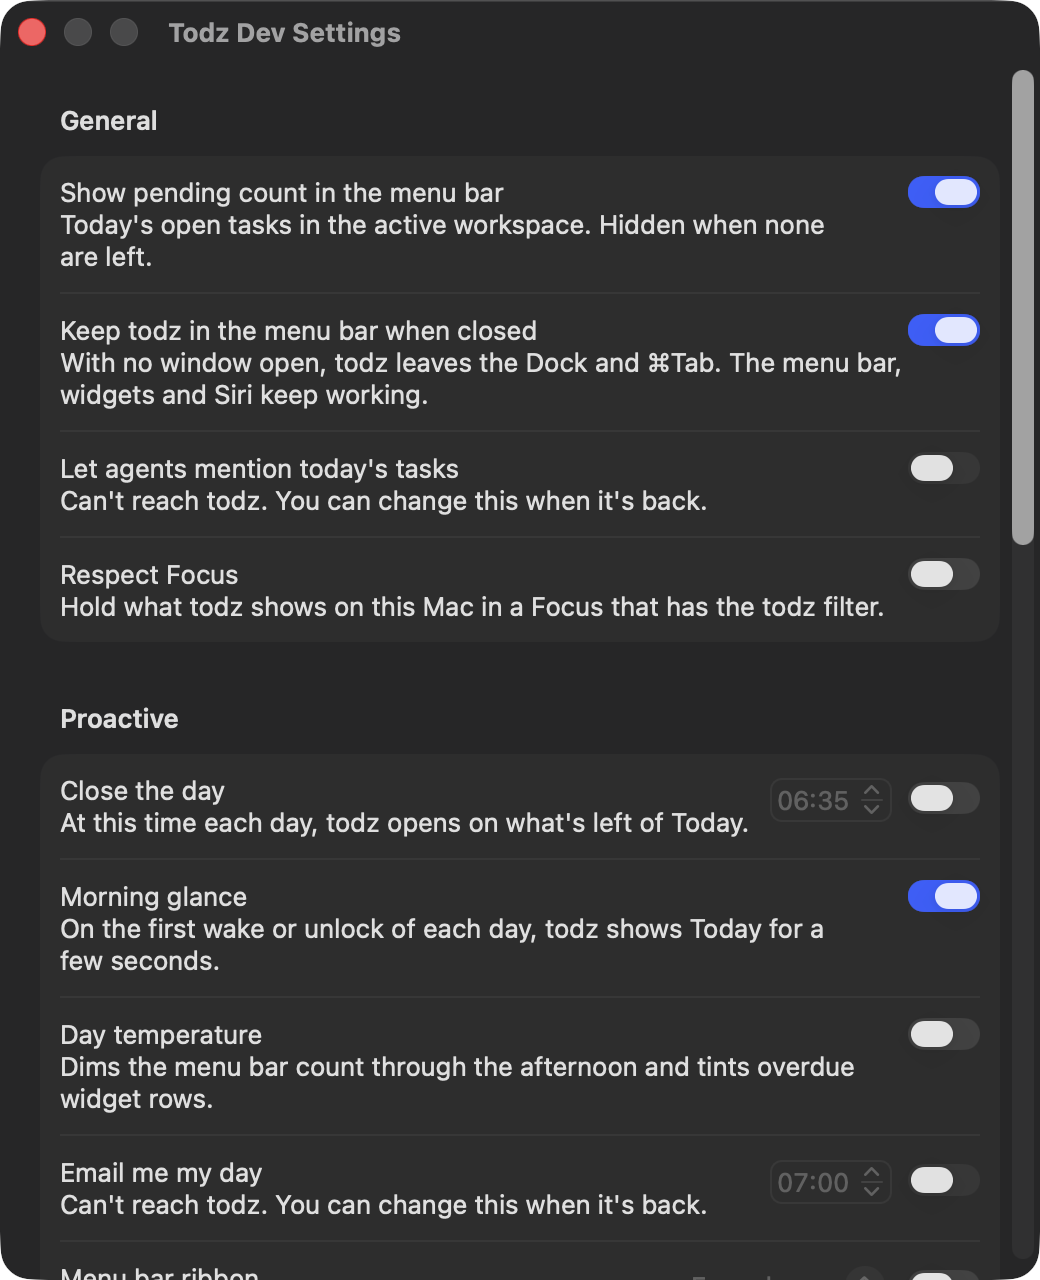
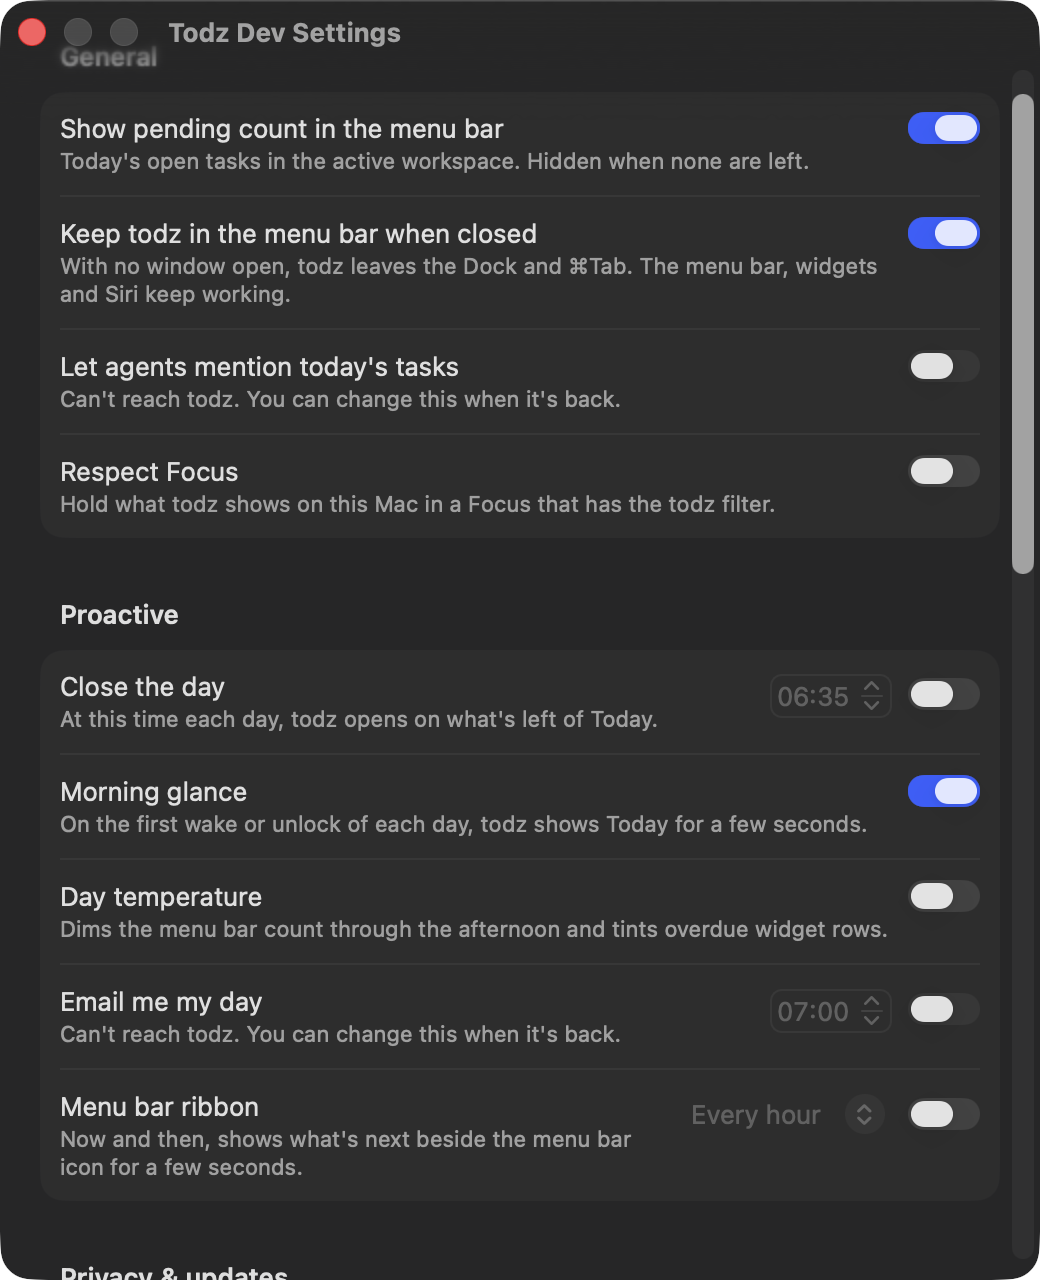
fix(macos): keep Return on Not Now and catch Escape separately
Not Now stays the first button with its Return key; Escape is caught by a local key monitor and clicks it. Settings descriptions use one shared secondary subheadline style. Also: out-of-range prompt indexes record nothing, control hints, leading-aligned server field, six-section wording, and new shots of the ribbon and usage rows.

diff --git a/apps/macos/Todz/AppDelegate+UsageSharing.swift b/apps/macos/Todz/AppDelegate+UsageSharing.swift
@@ -2,7 +2,6 @@ import AppKit
 import TodzKit
 
 private let successStatus = 204
-private let escapeKeyEquivalent = "\u{1b}"
 
 extension AppDelegate {
     @MainActor private static var isSendingUsage = false
@@ -37,11 +36,18 @@ extension AppDelegate {
         alert.messageText = UsageSharingCopy.askTitle
         alert.informativeText = UsageSharingCopy.askBody
         UsageSharingPrompt.buttonsInOrder.forEach { answer in
-            let button = alert.addButton(withTitle: UsageSharingCopy.title(of: answer))
-            if answer == UsageSharingPrompt.escapeAnswer { button.keyEquivalent = escapeKeyEquivalent }
+            alert.addButton(withTitle: UsageSharingCopy.title(of: answer))
         }
-        let responseIndex = alert.runModal().rawValue - NSApplication.ModalResponse.alertFirstButtonReturn.rawValue
-        usageSharingPreference.answer(isSharing: UsageSharingPrompt.answer(forButtonIndex: responseIndex) == .share)
+        let escapeMonitor = NSEvent.addLocalMonitorForEvents(matching: .keyDown) { event in
+            guard UsageSharingPrompt.isEscape(keyCode: event.keyCode) else { return event }
+            MainActor.assumeIsolated { alert.buttons.first?.performClick(nil) }
+            return nil
+        }
+        let response = alert.runModal()
+        if let escapeMonitor { NSEvent.removeMonitor(escapeMonitor) }
+        let responseIndex = response.rawValue - NSApplication.ModalResponse.alertFirstButtonReturn.rawValue
+        guard let answer = UsageSharingPrompt.answer(forButtonIndex: responseIndex) else { return }
+        usageSharingPreference.answer(isSharing: answer == .share)
     }
 
     private func sendDueUsageRollup() {

diff --git a/apps/macos/TodzKit/Tests/TodzKitTests/UsageSharingPromptTests.swift b/apps/macos/TodzKit/Tests/TodzKitTests/UsageSharingPromptTests.swift
@@ -7,13 +7,24 @@ import Testing
         #expect(UsageSharingPrompt.buttonsInOrder.first == UsageSharingPrompt.defaultAnswer)
     }
 
-    @Test func escapeDeclines() {
+    @Test func escapeDeclinesThroughTheFirstButton() {
         #expect(UsageSharingPrompt.escapeAnswer == .declineNow)
+        #expect(UsageSharingPrompt.buttonsInOrder.first == UsageSharingPrompt.escapeAnswer)
+    }
+
+    @Test func escapeKeyIsKeyCodeFiftyThree() {
+        #expect(UsageSharingPrompt.isEscape(keyCode: 53))
+        #expect(!UsageSharingPrompt.isEscape(keyCode: 36))
     }
 
     @Test func aButtonIndexAnswersWithItsButton() {
         #expect(UsageSharingPrompt.answer(forButtonIndex: 0) == .declineNow)
         #expect(UsageSharingPrompt.answer(forButtonIndex: 1) == .share)
+    }
+
+    @Test func aButtonIndexOutsideTheButtonsAnswersNothing() {
+        #expect(UsageSharingPrompt.answer(forButtonIndex: 2) == nil)
+        #expect(UsageSharingPrompt.answer(forButtonIndex: -1) == nil)
     }
 
     @Test func shareIsOfferedOnlyAsASecondButton() {

diff --git a/apps/macos/TodzKit/Sources/TodzKit/UsageSharingPrompt.swift b/apps/macos/TodzKit/Sources/TodzKit/UsageSharingPrompt.swift
@@ -7,8 +7,14 @@ public enum UsageSharingPrompt {
     public static let buttonsInOrder: [UsageSharingAnswer] = [.declineNow, .share]
     public static let defaultAnswer = UsageSharingAnswer.declineNow
     public static let escapeAnswer = UsageSharingAnswer.declineNow
+    public static let escapeKeyCode: UInt16 = 53
 
-    public static func answer(forButtonIndex index: Int) -> UsageSharingAnswer {
-        buttonsInOrder[index]
+    public static func answer(forButtonIndex index: Int) -> UsageSharingAnswer? {
+        guard buttonsInOrder.indices.contains(index) else { return nil }
+        return buttonsInOrder[index]
+    }
+
+    public static func isEscape(keyCode: UInt16) -> Bool {
+        keyCode == escapeKeyCode
     }
 }

diff --git a/apps/macos/Todz/Settings/SettingsView.swift b/apps/macos/Todz/Settings/SettingsView.swift
@@ -70,7 +70,8 @@ struct SettingsView: View {
                 LabeledContent {
                     Button(SettingsCopy.openFocusSettings, action: openFocusSettings)
                 } label: {
-                    detail(SettingsCopy.respectFocusHelper)
+                    Text(SettingsCopy.respectFocusHelper)
+                        .settingsDetail()
                 }
             }
         } header: {
@@ -160,11 +161,6 @@ struct SettingsView: View {
         } footer: {
             VersionLine()
         }
-    }
-
-    private func detail(_ text: String) -> some View {
-        Text(text)
-            .fixedSize(horizontal: false, vertical: true)
     }
 
     private var agentNudge: Binding<Bool> {

diff --git a/apps/macos/Todz/Server/ServerAddressForm.swift b/apps/macos/Todz/Server/ServerAddressForm.swift
@@ -25,7 +25,7 @@ struct ServerAddressForm: View {
                 cloudButton
             } label: {
                 Text(SettingsCopy.serverDetail)
-                    .fixedSize(horizontal: false, vertical: true)
+                    .settingsDetail()
             }
             editor
         case .column:
@@ -70,6 +70,7 @@ struct ServerAddressForm: View {
     private var field: some View {
         TextField(SettingsCopy.serverAddressLabel, text: $text, prompt: Text(SettingsCopy.serverPlaceholder))
             .textFieldStyle(.roundedBorder)
+            .multilineTextAlignment(.leading)
             .labelsHidden()
             .autocorrectionDisabled()
             .focused($isFieldFocused)

diff --git a/apps/macos/Todz/Settings/SettingsRow.swift b/apps/macos/Todz/Settings/SettingsRow.swift
@@ -10,10 +10,11 @@ struct SettingsRow<Control: View>: View {
             VStack(alignment: .leading) {
                 Text(title)
                 Text(detail)
-                    .fixedSize(horizontal: false, vertical: true)
+                    .settingsDetail()
             }
             Spacer(minLength: 0)
             control()
+                .accessibilityHint(detail)
         }
     }
 }

diff --git a/apps/macos/Todz/Settings/View+SettingsDetail.swift b/apps/macos/Todz/Settings/View+SettingsDetail.swift
@@ -1,0 +1,9 @@
+import SwiftUI
+
+extension View {
+    func settingsDetail() -> some View {
+        font(.subheadline)
+            .foregroundStyle(.secondary)
+            .fixedSize(horizontal: false, vertical: true)
+    }
+}

diff --git a/docs/adr/0092-settings-is-one-scrolling-form-of-sections-with-a-resizable-window-and-usage-sharing-asks-with-not-now-as-the-default.md b/docs/adr/0092-settings-is-one-scrolling-form-of-sections-with-a-resizable-window-and-usage-sharing-asks-with-not-now-as-the-default.md
@@ -21,8 +21,8 @@ Settings is one long grouped form in a fixed 420-point window, its descriptions 
 | Option | Pros | Cons | Why not |
 |--------|------|------|---------|
 | One form of sections (chosen) | keeps the native grouped look, one scroll, no new window model | a long scroll on a small screen | smallest change that fixes the cut text and the cramped window |
-| Tabbed Settings | short panes | seven panes split across tabs, and a new layout for the owner to learn | more change than the report asks for |
-| Sidebar Settings | the most Apple-native for many panes | needs a split view inside the Settings scene | more change, and seven panes do not need a sidebar |
+| Tabbed Settings | short panes | six sections split across tabs, and a new layout for the owner to learn | more change than the report asks for |
+| Sidebar Settings | the most Apple-native for many panes | needs a split view inside the Settings scene | more change, and six sections do not need a sidebar |
 | Keep "Share" first and only relabel it | no code change in the prompt | the stray Return still opts the owner in | the owner asked for Not Now as the default |
 | Count only named projects, show "Inbox only" when empty | keeps the old meaning | a second copy and a second rule | the owner asked for a truthful count; the Inbox is a project |
 

diff --git a/docs/features/settings-layout/spec.md b/docs/features/settings-layout/spec.md
@@ -29,7 +29,7 @@
 
 ## Design
 
-- **Sections.** One `Form` with a `Section` per group, each with a header. Settings already reads as a grouped list, so sections keep the native look; a sidebar would have needed a new window model for seven panes. The Workspaces and Workspace shortcuts sections keep their own views.
+- **Sections.** One `Form` with a `Section` per group, each with a header. Settings already reads as a grouped list, so sections keep the native look; a sidebar would have needed a new window model for six sections. The Workspaces and Workspace shortcuts sections keep their own views.
 - **Rows.** `SettingsRow` puts a title and a full-width detail on the left and the control on the right, top-aligned, so the switch sits on the first line of the title. Details wrap with `fixedSize(horizontal: false, vertical: true)`; no `lineLimit` remains in Settings.
 - **Window.** The scene uses a 520 by 640 default, a 460 by 420 minimum, and `.contentMinSize` resizability. The form no longer forces its own height.
 - **Grey pill.** The Server address field is the rounded text field with its label hidden. The row now shows a "Server address" label, so the field reads as a control.
